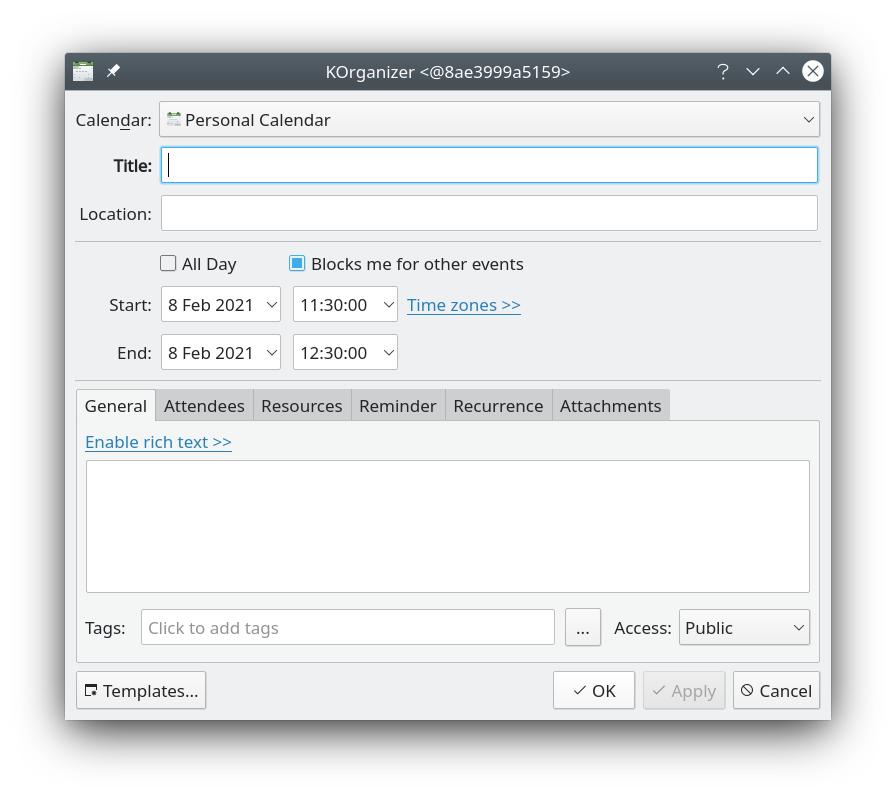
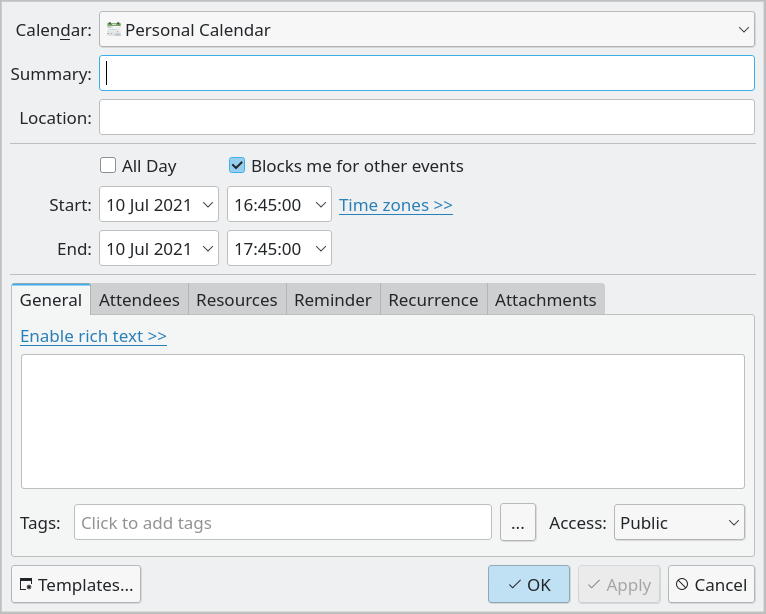
Replace "Title" with "Summary" in the user interface

Changed region(s): [[0.0, 0.0, 1.0, 1.0]]

diff --git a/korgac/alarmdialog.cpp b/korgac/alarmdialog.cpp
@@ -202,13 +202,13 @@ AlarmDialog::AlarmDialog(const Akonadi::ETMCalendar::Ptr &calendar, QWidget *par
     mIncidenceTree = new QTreeWidget(topBox);
     mIncidenceTree->setColumnCount(3);
     mIncidenceTree->setSortingEnabled(true);
-    const QStringList headerLabels = (QStringList(i18nc("@title:column reminder title", "Title"))
+    const QStringList headerLabels = (QStringList(i18nc("@title:column reminder summary", "Summary"))
                                       << i18nc("@title:column happens at date/time", "Date Time") << i18nc("@title:column trigger date/time", "Trigger Time"));
     mIncidenceTree->setHeaderLabels(headerLabels);
 
     QHeaderView *header = mIncidenceTree->header();
     header->setSectionResizeMode(0, QHeaderView::Stretch);
-    mIncidenceTree->headerItem()->setToolTip(0, i18nc("@info:tooltip", "The event or to-do title"));
+    mIncidenceTree->headerItem()->setToolTip(0, i18nc("@info:tooltip", "The event or to-do summary"));
 
     header->setSectionResizeMode(1, QHeaderView::ResizeToContents);
     mIncidenceTree->headerItem()->setToolTip(1, i18nc("@info:tooltip", "The reminder is set for this date/time"));
